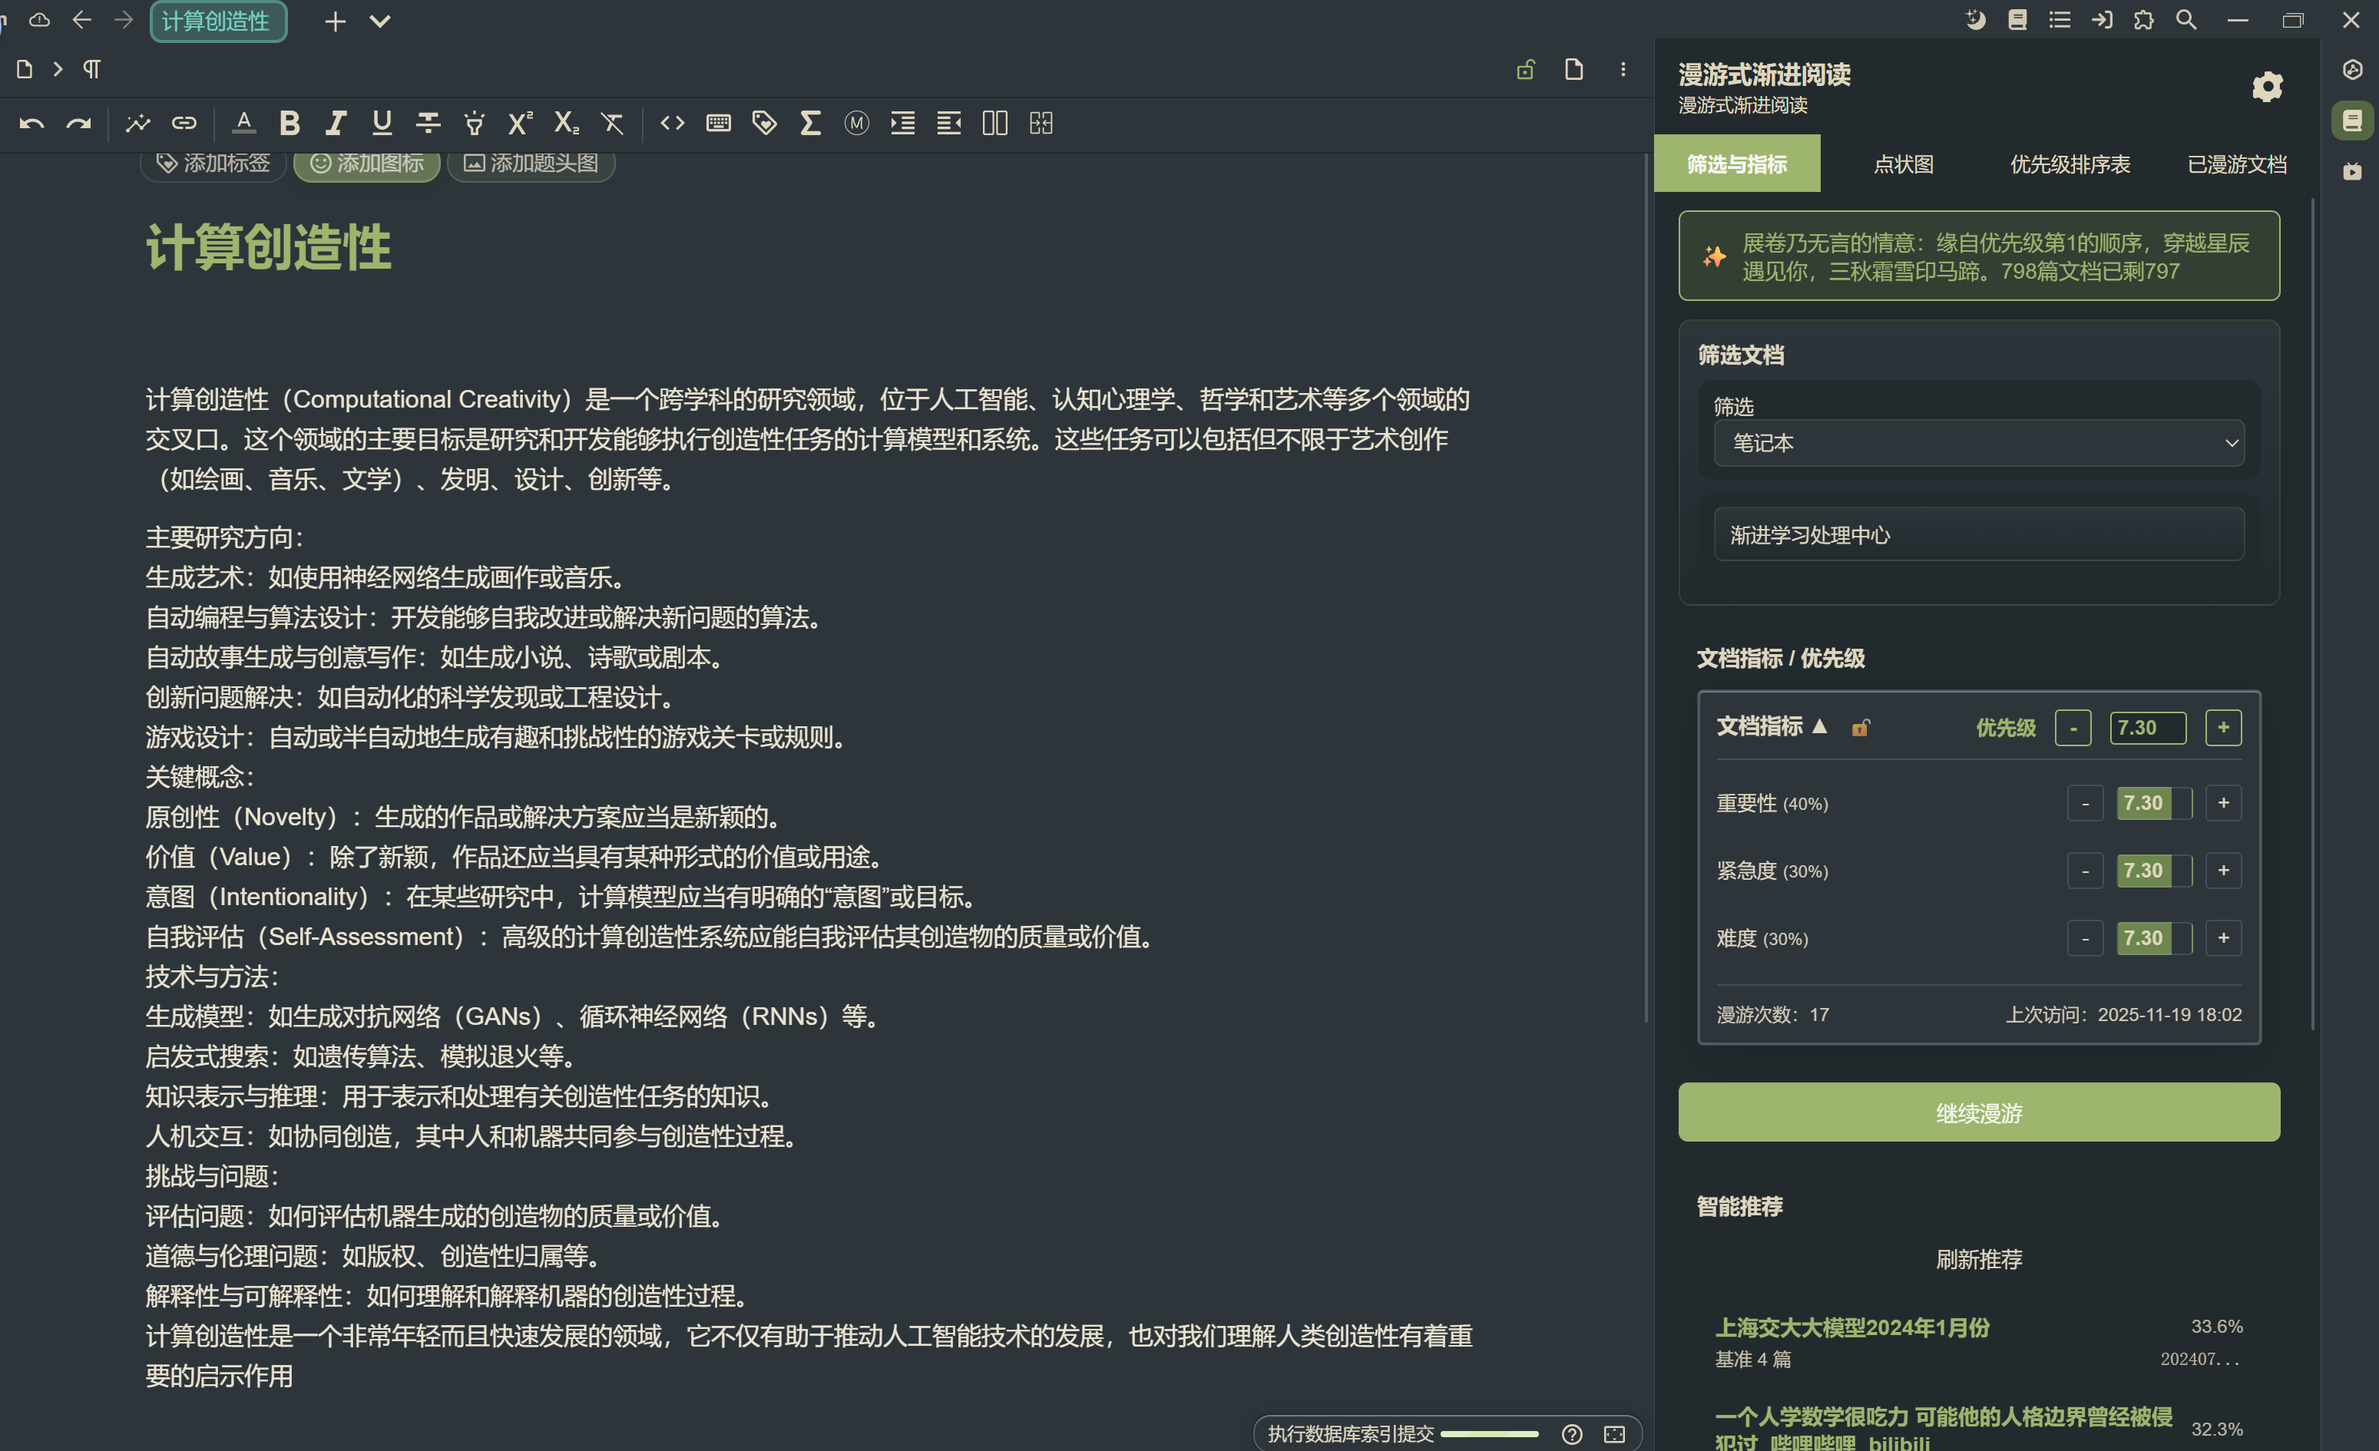
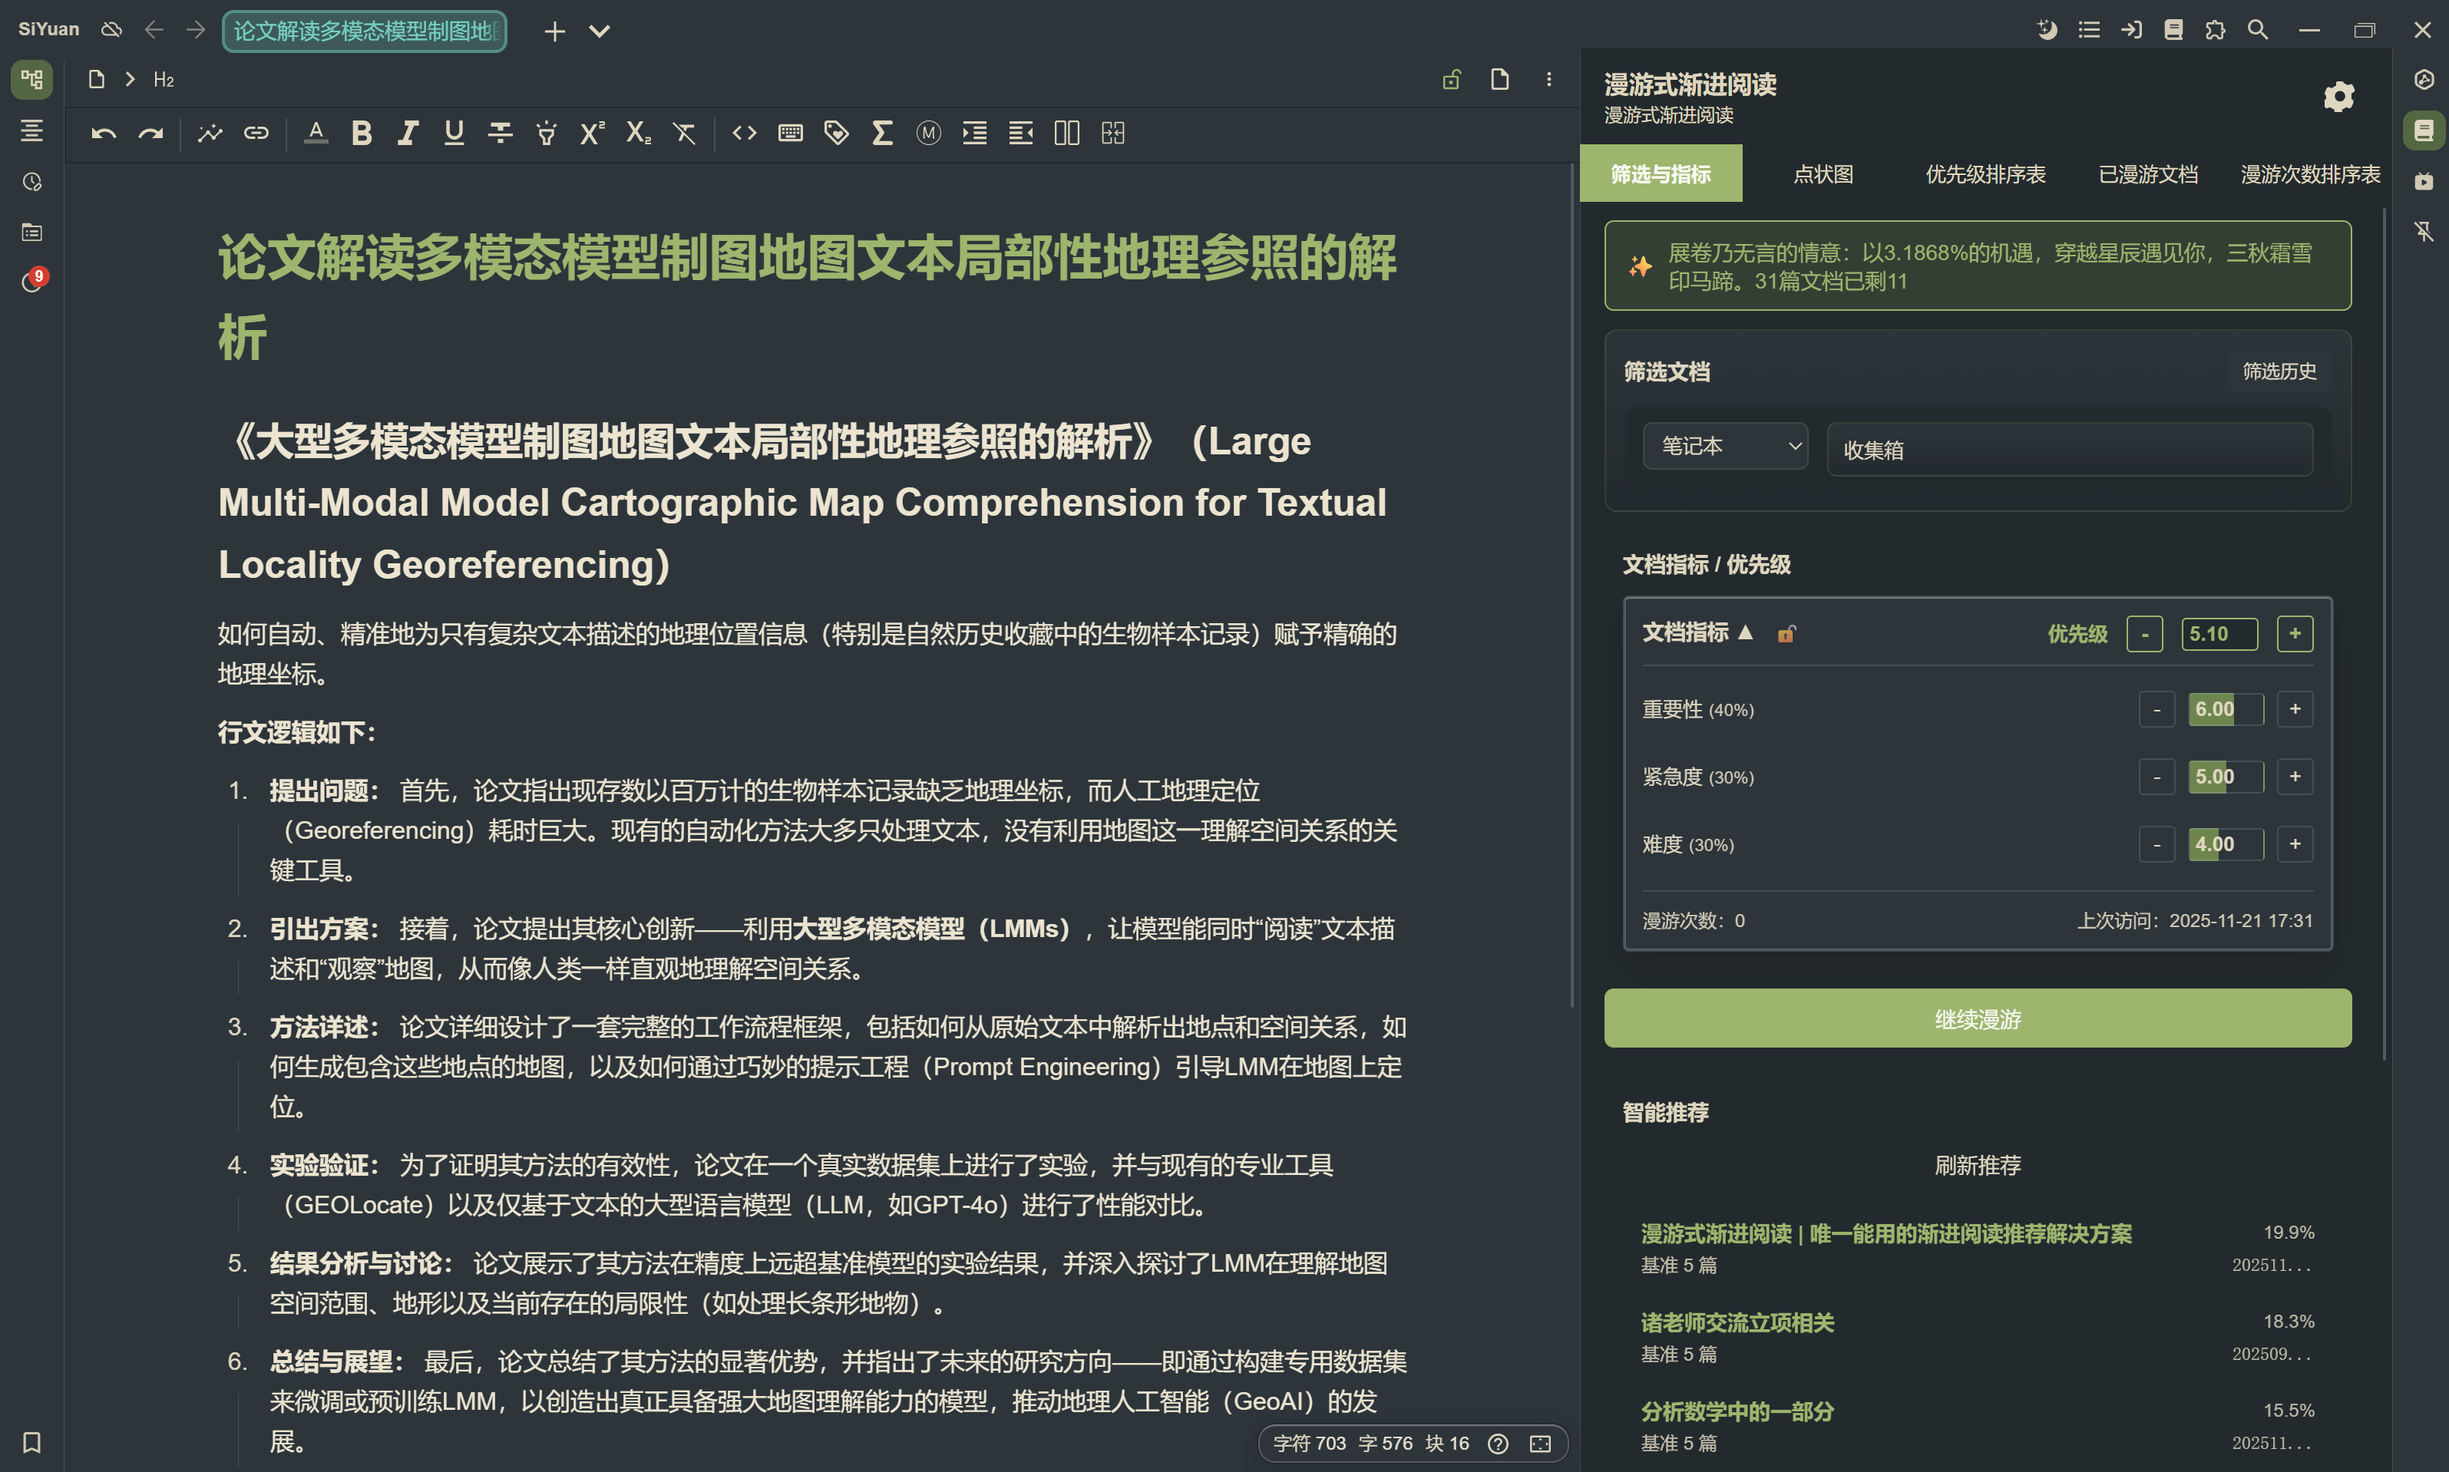
更新漫游次数排序表

diff --git a/CHANGELOG.md b/CHANGELOG.md
@@ -7,6 +7,7 @@
 * 优化移动端跳转响应速度：将延迟从300ms优化到100ms，提升操作流畅度
 * 筛选方式与筛选内容改为左右并排展示，减少面板竖向空间占用
 * 新增筛选历史：记录最近 10 次筛选选择（支持钉住防覆盖），筛选区域右上可快速查看并一键应用历史记录
+* 新增漫游次数排序表：在侧边栏新增"漫游次数排序表"标签页，按漫游次数降序展示所有文档，支持刷新列表、点击打开文档、清0单个文档的漫游次数
 
 ### Bug Fixes
 * 修复移动端浮窗点击无响应的问题，确保点击后能正确触发漫游并跳转
@@ -169,4 +170,5 @@
 * Added priority calculation based on parameters
 * Implemented roulette wheel algorithm for document recommendation
 * Added support for notebook and root document filtering
+* Added support for completely random "one-pass" mode
 * Added support for completely random "one-pass" mode

diff --git a/README.md b/README.md
@@ -263,6 +263,7 @@
 <li><strong>⚡ Faster mobile jump</strong>: Reduced delay from 300ms to 100ms to improve responsiveness.</li>
 <li><strong>🧭 Side-by-side filters</strong>: Filter mode and filter content now share one row, saving vertical space.</li>
 <li><strong>🗂 Filter history</strong>: Keeps the latest 10 filter choices, supports pinning to avoid overwriting, and can be applied quickly from the filter header.</li>
+<li><strong>📊 Roaming count sort table</strong>: Added a new "Roaming Count Sort Table" tab in the sidebar, displaying all documents sorted by roaming count in descending order, with support for refreshing the list, opening documents, and resetting individual document roaming counts to zero.</li>
 </ul>
 </li>
 <li style="margin: 0.3em 0;"><strong style="color: #ef4444;">🐛 Bug Fixes</strong>

diff --git a/README_zh_CN.md b/README_zh_CN.md
@@ -263,6 +263,7 @@
 <li><strong>⚡ 跳转响应优化</strong>：移动端延迟从 300ms 优化到 100ms，操作更顺滑。</li>
 <li><strong>🧭 筛选左右并排</strong>：筛选方式与筛选内容放在同一行，减少面板竖向占用。</li>
 <li><strong>🗂 筛选历史</strong>：记录最近 10 次筛选（可钉住防覆盖），在筛选区域右上快速查看并一键应用。</li>
+<li><strong>📊 漫游次数排序表</strong>：新增"漫游次数排序表"标签页，按漫游次数降序展示所有文档，支持刷新列表、点击打开文档、清0单个文档的漫游次数。</li>
 </ul>
 </li>
 <li style="margin: 0.3em 0;"><strong style="color: #ef4444;">🐛 问题修复</strong>
